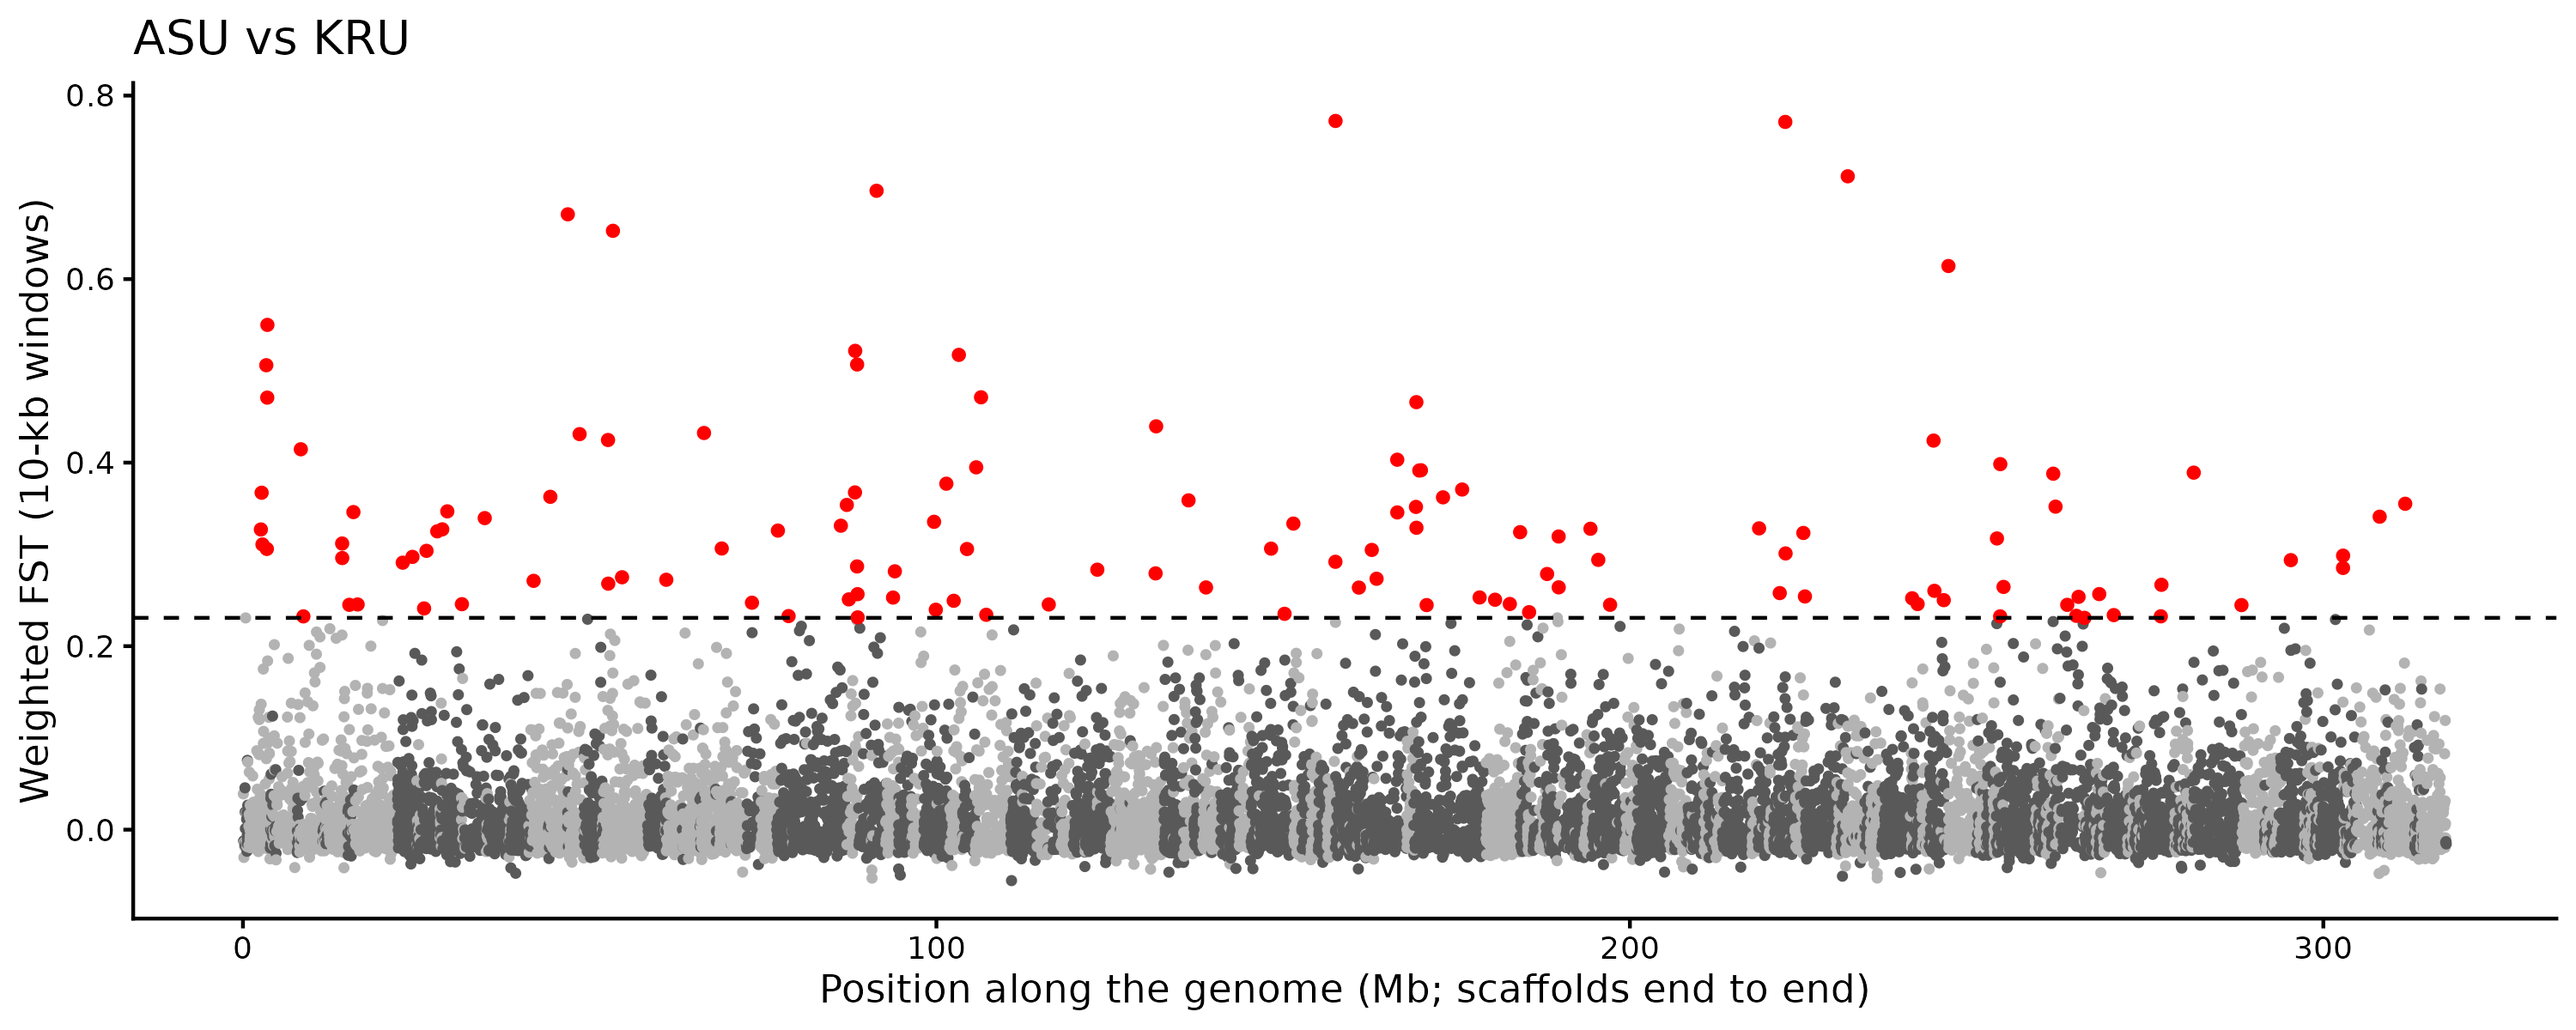
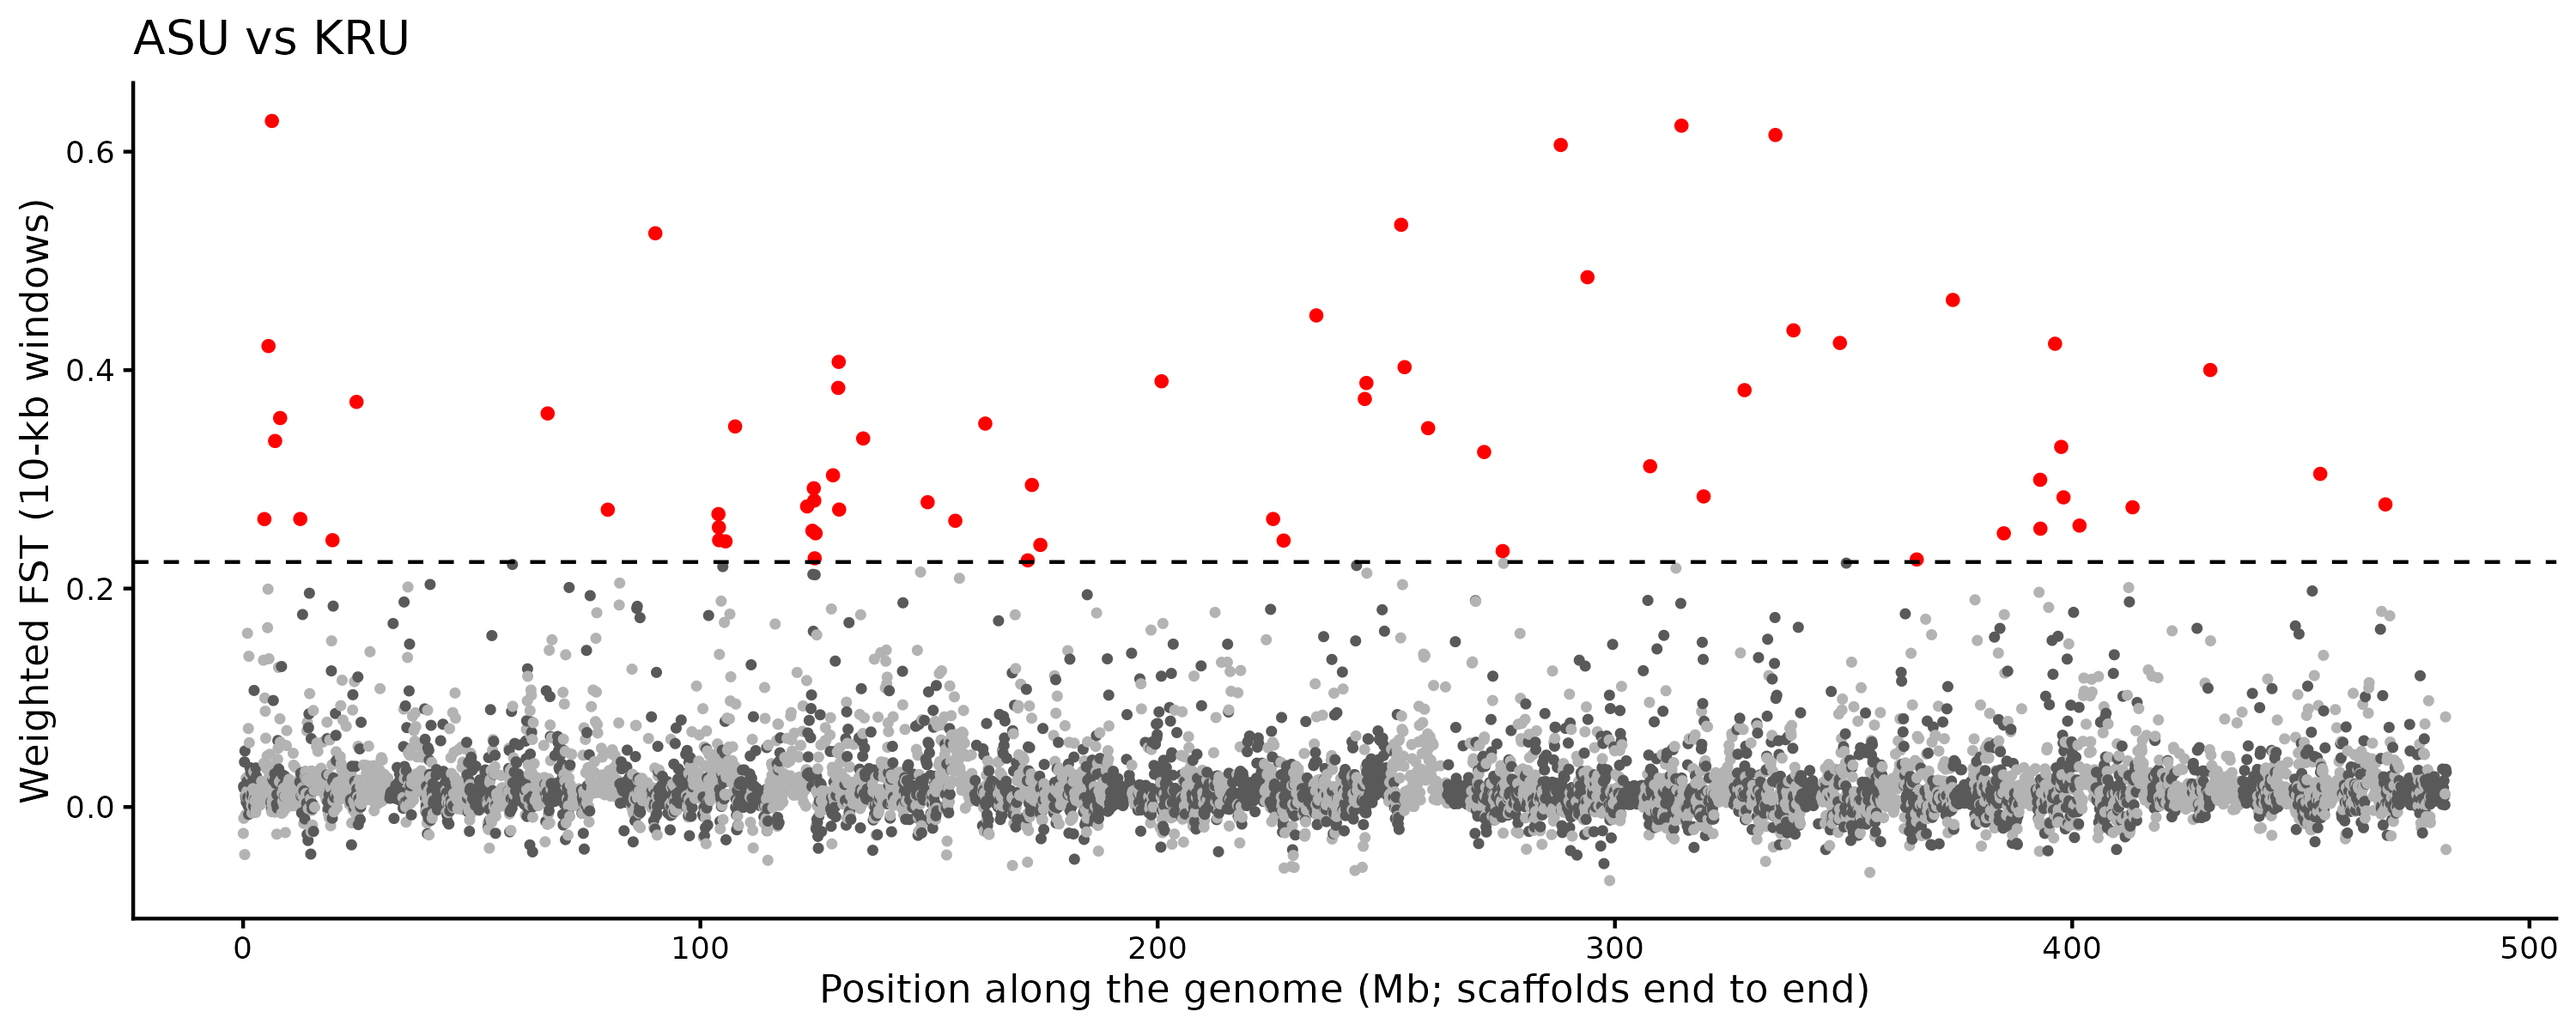
Created homework script and updated by lab notebook.

diff --git a/population_genomics/popgen_notebook.md b/population_genomics/popgen_notebook.md
@@ -6,9 +6,9 @@ utilizing VCF (Variant Call Format) to access genome data for *Lottia gigantea* 
 
 Module load
 
--   gcc
+- gcc
 
--   bcftools v1.19
+- bcftools v1.19
 
 use —version to get the version you are using
 
@@ -69,7 +69,7 @@ cross-validation error plot
 
 Look for the K with the lowest CV error, or the point where the curve flattens out.
 
--   three has the lowest error here, want to look into that further. we will be plotting all five.
+- three has the lowest error here, want to look into that further. we will be plotting all five.
 
 Admixture plot K1-5
 
@@ -133,11 +133,11 @@ similar code to look at how Tajima's D is spread across the genome. If Tajima's 
 
 Heterozygosity
 
--   **Observed heterozygosity** (HO) is the proportion of sites at which an individual is heterozygous.
+- **Observed heterozygosity** (HO) is the proportion of sites at which an individual is heterozygous.
 
--   **Expected heterozygosity** (HE) is the proportion we would expect if the population mated at random (Hardy–Weinberg equilibrium): 2pq at each site, where p and q are the allele frequencies.
+- **Expected heterozygosity** (HE) is the proportion we would expect if the population mated at random (Hardy–Weinberg equilibrium): 2pq at each site, where p and q are the allele frequencies.
 
--   **The inbreeding coefficient** compares the two: F = 1 − HO / HE. F = 0 means an individual is as heterozygous as expected, F \> 0 means less heterozygous, and F \< 0 means more.
+- **The inbreeding coefficient** compares the two: F = 1 − HO / HE. F = 0 means an individual is as heterozygous as expected, F \> 0 means less heterozygous, and F \< 0 means more.
 
 Using `ggdist` to make a rain cloud plot
 
@@ -230,13 +230,13 @@ then repeated it with latitude
 
 what do these patterns suggest
 
--   the graph above has a strong association with latitude, which is interesting to look into. Supposedly this SNP is standing outside of the omega matrix, this is greater than what we would expect from neutral pop structure
+- the graph above has a strong association with latitude, which is interesting to look into. Supposedly this SNP is standing outside of the omega matrix, this is greater than what we would expect from neutral pop structure
 
--   you would want it to be a negative slope, or a relationship across the sites with temperature for there to be something going on with sea surface temperature. (flat graph that is not visualized here but was seen in class. They all had .75)
+- you would want it to be a negative slope, or a relationship across the sites with temperature for there to be something going on with sea surface temperature. (flat graph that is not visualized here but was seen in class. They all had .75)
 
 <!-- -->
 
--   Change and pull out the counts to change the top snp and to change which one is being visualized on the graph.
+- Change and pull out the counts to change the top snp and to change which one is being visualized on the graph.
 
 BayPass is really good at accounting for multiple variables in analysis.
 
@@ -252,7 +252,7 @@ Molecular functions and cellular components that can be looked at but we will no
 
 There is GO for genomic offset and GO for gene ontology which is what we are doing here.
 
--   got files from the class folder to our own directory.
+- got files from the class folder to our own directory.
 
 my directory `/users/s/i/siwinski/projects/eco_genomics_2026/population_genomics/`
 
@@ -294,15 +294,15 @@ Do individuals cluster by site or region? They seem to be clustering by region.
 
 How many genetic groups are there, and are individuals of mixed ancestry? Seems like there are three groups, and they are of mixed ancestry due to the fluidity of oceans.
 
--   seems like the PCA and admixture support each other. Using this as a gauge as to how many populations we have.
+- seems like the PCA and admixture support each other. Using this as a gauge as to how many populations we have.
 
--   K=5 has way to much noise, and error.
+- K=5 has way to much noise, and error.
 
--   Could select K=2 or 3
+- Could select K=2 or 3
 
--   its not to say that there aren't 3 distinct populations, but we can see the right two populations are distinctly different from the rest of the groups in all 5 admixtures. Those two on the right are the southernmost groups. What drives them? Could it be temperature?
+- its not to say that there aren't 3 distinct populations, but we can see the right two populations are distinctly different from the rest of the groups in all 5 admixtures. Those two on the right are the southernmost groups. What drives them? Could it be temperature?
 
--   Those two are in an area where there is a lot of up-welling and is a bit colder than one of the populations slightly north. There might not be a lot of dispersion jut because of geography.
+- Those two are in an area where there is a lot of up-welling and is a bit colder than one of the populations slightly north. There might not be a lot of dispersion jut because of geography.
 
 **Genetic diversity and signatures of selection**
 
@@ -323,3 +323,63 @@ BayPass covariate model (BF): Which SNPs are associated with latitudinal or temp
 Gene types (SnpEff): Where are the outlier SNPs relative to genes, and what is there potential function? total amount of SNPs for each category and affect on genome. Implies that the changes that were made are more regulatory. There is a much larger count in the latitude group, than the surface temperature group
 
 Gene Ontology: Are the candidate genes enriched for particular functions? They are looking at potential functions of candidate genes. Making sure we are checking the website further. Starting to look at the biology of what these candidate genes are actually doing.
+
+### Homework #2 
+
+R script `~/projects/eco_genomics_2026/population_genomics/myscripts/Homework 2.R`
+
+code I used in terminal to analyze the data with vcftools
+
+```{bash}
+
+cd /users/s/i/siwinski/projects/eco_genomics_2026/population_genomics/mydata
+
+VCF=$DIR/Lottia_gigantea_flt3_sub0.01.vcf.gz
+
+
+vcftools --gzvcf $VCF \
+        --keep ASU.txt \
+        --window-pi 100000 \
+        --out pi/ASU_pi_100kb
+        
+
+vcftools --gzvcf $VCF \
+        --keep KRU.txt \
+        --window-pi 100000 \
+        --out pi/KRU_pi_100kb
+
+
+vcftools --gzvcf ${VCF} \
+  --weir-fst-pop pops/ASU.txt \
+  --weir-fst-pop pops/KRU.txt \
+  --fst-window-size 100000 \
+  --fst-window-step 100000 \
+  --out fst/ASU_vs_KRU_FST_10kb \
+  2> fst/ASU_vs_KRU_FST_10kb.log
+```
+
+Figures I generated
+
+![](myresults/pi_ASU_violin.png){width="421"}
+
+Violin plot showing the nucleotide diversity of the most northern population (ASU).
+
+![](myresults/pi_KRU_violin.png){width="497"}
+
+Violin plot showing the nucleotide diversity of the most southern population (KRU).
+
+![](myresults/pi/pi_along_scaffold_ASU.png){width="4800"}
+
+graph showing the pi for the most northern population (ASU).
+
+![](myresults/pi/pi_along_scaffold_KRU.png){width="4800"}
+
+graph showing the pi for the most southern population (KRU).
+
+![](myresults/fst_scan_ASU_vs_KRU.png)
+
+FST comparing ASU and KRU. Plotting the scan and mark the windows in the top 1% of the FST distribution. AN empirical cut-off like this ranks candidates, its not a statistical test.
+
+Slso made a text file of the outliers showing 67 outliers.
+
+From Signatures of Selection "A genome-wide FST is a single number. To find where in the genome populations are unusually different, we need FST along the genome. Single-SNP estimates are can be noisy with low sample size whereby a SNP can show high FST just because of which individuals happened to be sampled, here we have good coverage but it is still often useful to do windowed approaches. Averaging over windows of neighbouring SNPs smooths out this noise and matches the expectation that hitchhiking affects a whole region rather than a single base."
